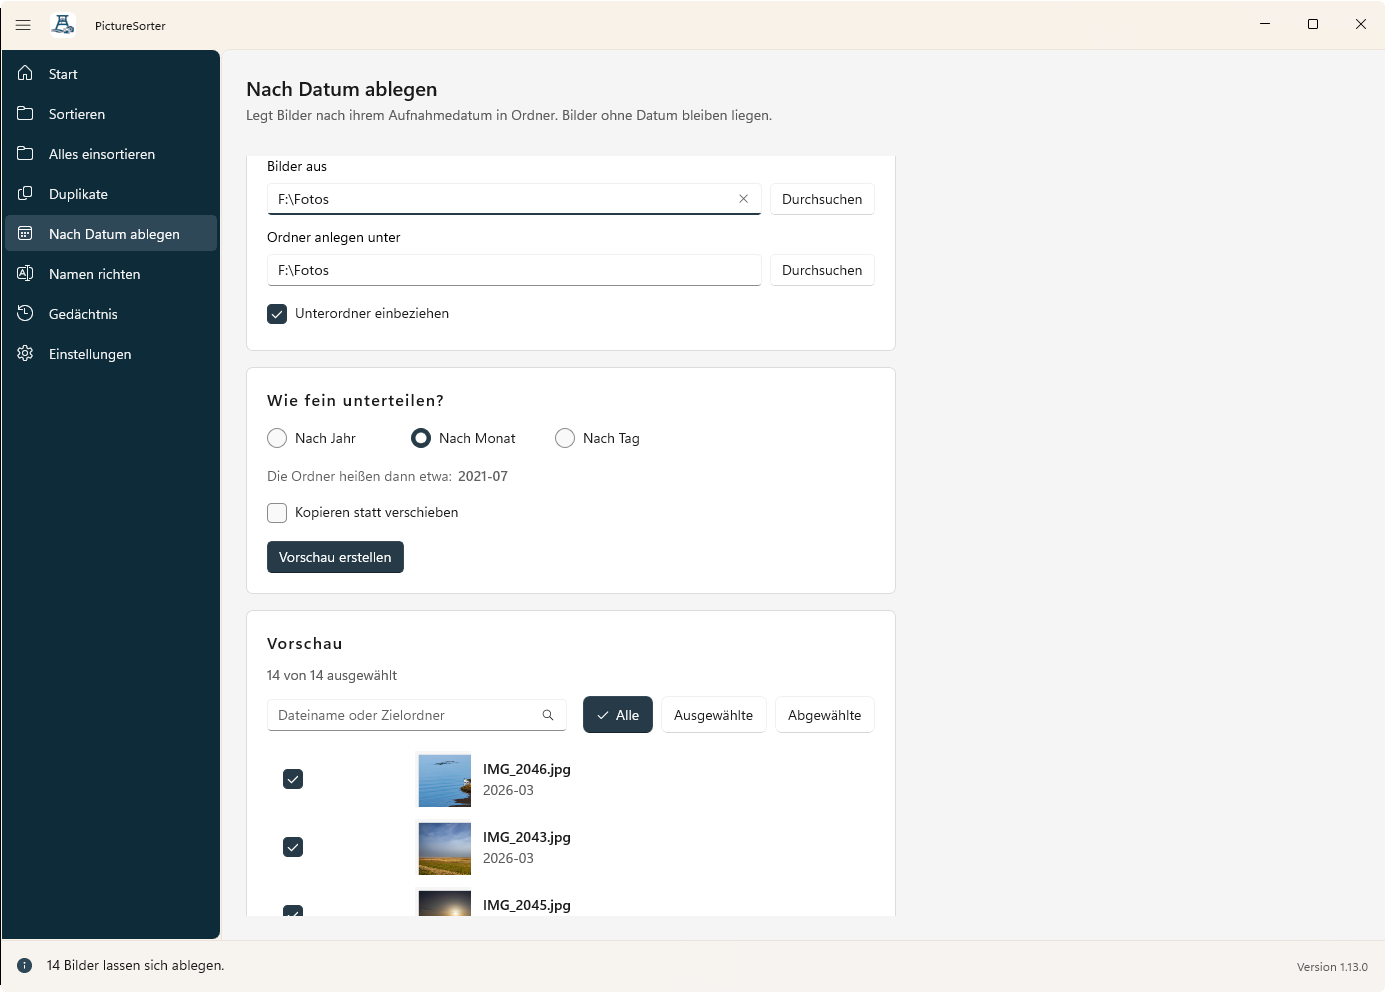
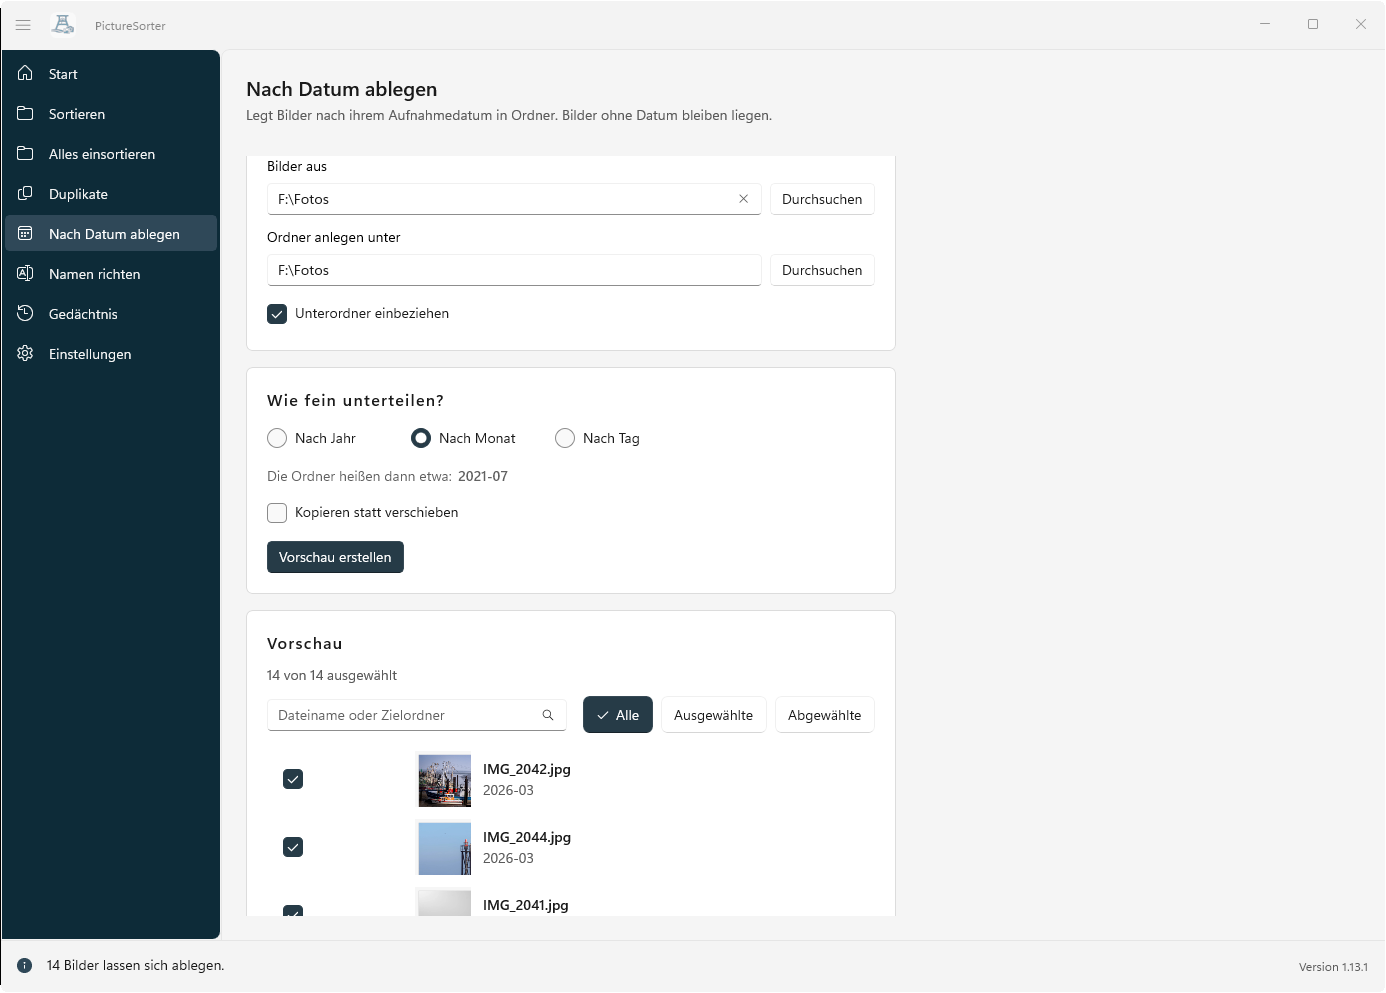
Release v1.13.1

diff --git a/src/PictureSorter.Clip/ClipEmbedder.cs b/src/PictureSorter.Clip/ClipEmbedder.cs
@@ -1,3 +1,4 @@
+using System.Runtime.InteropServices;
 using System.Security.Cryptography;
 using System.Text;
 using Microsoft.Extensions.Logging;
@@ -27,6 +28,7 @@ internal sealed class ClipEmbedder : IVisualEmbedder, IDisposable
     private readonly IFileFingerprinter _fingerprinter;
     private readonly IEmbeddingCache _cache;
     private readonly ILogger<ClipEmbedder> _logger;
+    private readonly Architecture _architecture;
     private readonly SemaphoreSlim _prepareGate = new(1, 1);
 
     private IClipRuntime? _runtime;
@@ -40,13 +42,15 @@ internal sealed class ClipEmbedder : IVisualEmbedder, IDisposable
     /// <param name="fingerprinter">Erkennt Fotos ohne Inhaltsschlüssel.</param>
     /// <param name="cache">Der Zwischenspeicher der Vektoren.</param>
     /// <param name="logger">Der Logger.</param>
+    /// <param name="architecture">Der Prozessor; ohne Angabe der des laufenden Programms.</param>
     public ClipEmbedder(
         ClipModelStore store,
         Func<string, IClipRuntime> createRuntime,
         IScaledImageReader imageReader,
         IFileFingerprinter fingerprinter,
         IEmbeddingCache cache,
-        ILogger<ClipEmbedder> logger)
+        ILogger<ClipEmbedder> logger,
+        Architecture? architecture = null)
     {
         ArgumentNullException.ThrowIfNull(store);
         ArgumentNullException.ThrowIfNull(createRuntime);
@@ -61,11 +65,19 @@ internal sealed class ClipEmbedder : IVisualEmbedder, IDisposable
         _fingerprinter = fingerprinter;
         _cache = cache;
         _logger = logger;
+        _architecture = architecture ?? RuntimeInformation.ProcessArchitecture;
     }
 
     /// <inheritdoc />
     public async Task PrepareAsync(IProgress<ModelDownloadProgress>? progress, CancellationToken cancellationToken)
     {
+        // Vor allem anderen: Das 32-Bit-Paket stürzte beim Anlauf mit einem Heap-Fehler ab, und ONNX Runtime
+        // gibt es dafür ohnehin nicht. Ein Download wäre dort auch dann vergebens.
+        if (_architecture == Architecture.X86)
+        {
+            throw new AiUnavailableException("Diese Funktion ist im 32-Bit-Paket nicht verfügbar. Bitte nimm das 64-Bit-Paket.");
+        }
+
         await _prepareGate.WaitAsync(cancellationToken).ConfigureAwait(false);
         try
         {

diff --git a/tests/PictureSorter.Clip.Tests/ClipEmbedderTests.cs b/tests/PictureSorter.Clip.Tests/ClipEmbedderTests.cs
@@ -116,6 +116,31 @@ public sealed class ClipEmbedderTests : IDisposable
     }
 
     [Fact]
+    public async Task Prepare_InThe32BitPackage_RefusesBeforeDownloadingAnything()
+    {
+        // Das echte 32-Bit-Paket stürzte kurz nach dem Beginn des Downloads ab.
+        bool runtimeCreated = false;
+        using ClipEmbedder sut = new(
+            new ClipModelStore(new SingleClientFactory(_handler), _root, NullLogger<ClipModelStore>.Instance, StubHandler.Files),
+            _ =>
+            {
+                runtimeCreated = true;
+                return _runtime;
+            },
+            _reader,
+            _fingerprinter,
+            _cache,
+            NullLogger<ClipEmbedder>.Instance,
+            System.Runtime.InteropServices.Architecture.X86);
+
+        AiUnavailableException error = await Assert.ThrowsAsync<AiUnavailableException>(() => sut.PrepareAsync(null, CancellationToken.None));
+
+        Assert.Contains("32-Bit", error.Message, StringComparison.Ordinal);
+        Assert.False(runtimeCreated);
+        Assert.Empty(Directory.GetFileSystemEntries(_root));
+    }
+
+    [Fact]
     public async Task Prepare_WithoutARuntimeForThisProcessor_ReportsItAsUnavailable()
     {
         // ONNX Runtime liefert keine Fassung für 32-Bit-Windows, das Paket dafür gibt es trotzdem. Dort

diff --git a/CHANGELOG.md b/CHANGELOG.md
@@ -4,10 +4,14 @@ Alle nennenswerten Änderungen an diesem Projekt werden hier dokumentiert.
 Das Format orientiert sich an [Keep a Changelog](https://keepachangelog.com/de/1.1.0/),
 die Versionierung folgt [Semantic Versioning](https://semver.org/lang/de/).
 
-## [1.13.0] - 2026-11-02
+## [1.13.1] - 2026-11-02
+
+v1.13.0 ist nicht erschienen: Das 32-Bit-Paket ließ sich nicht bauen. Alle Änderungen stehen deshalb hier.
 
 ### Behoben
 
+- **Das 32-Bit-Paket lässt sich wieder bauen, und die neue Seite stürzt dort nicht ab.** „Alles einsortieren" meldet in diesem Paket,
+  dass die Funktion nur im 64-Bit-Paket verfügbar ist, und lädt nichts herunter.
 - **„Jetzt einrichten" steht jetzt auch auf der Startseite.** Bisher nannte sie nur den Weg über die Einstellungen.
 - **Die Einrichtung bricht nach der Installation von Ollama nicht mehr ab.** Auf einem PC ohne Ollama lief die Installation durch,
   danach kam eine Fehlermeldung, und die Modelle fehlten. Erst ein zweiter Start lud sie. Dieselbe Ursache ließ das Fenster während

diff --git a/BETRIEB.md b/BETRIEB.md
@@ -239,7 +239,7 @@ Zeitlimit.
 (rund 90 MB) lädt sie beim ersten Gebrauch von huggingface.co in den Datenordner (`clip-vit-b32`), festgelegt auf eine
 Revision und Prüfsumme. Die Fotos verlassen dabei den Rechner nicht. Scheitert der Download, meldet die Seite das und ein
 neuer Versuch genügt; halbe Dateien bleiben nicht liegen. Wer den Ordner löscht, lädt beim nächsten Mal neu. Im
-32-Bit-Paket ist die Seite nicht verfügbar, weil es ONNX Runtime dafür nicht gibt.
+32-Bit-Paket meldet die Seite, dass sie nicht verfügbar ist, weil es ONNX Runtime dafür nicht gibt, und lädt nichts herunter.
 
 ---
 
